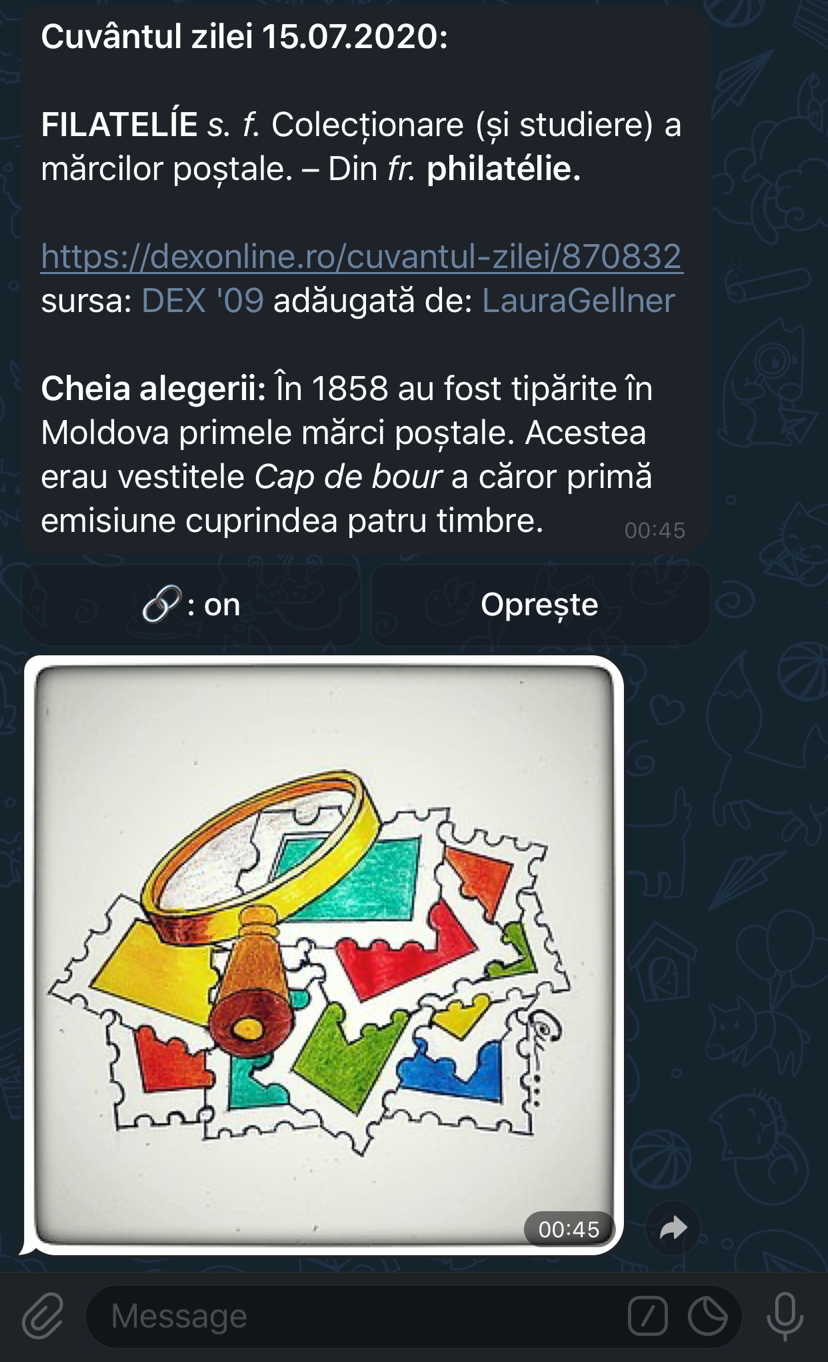
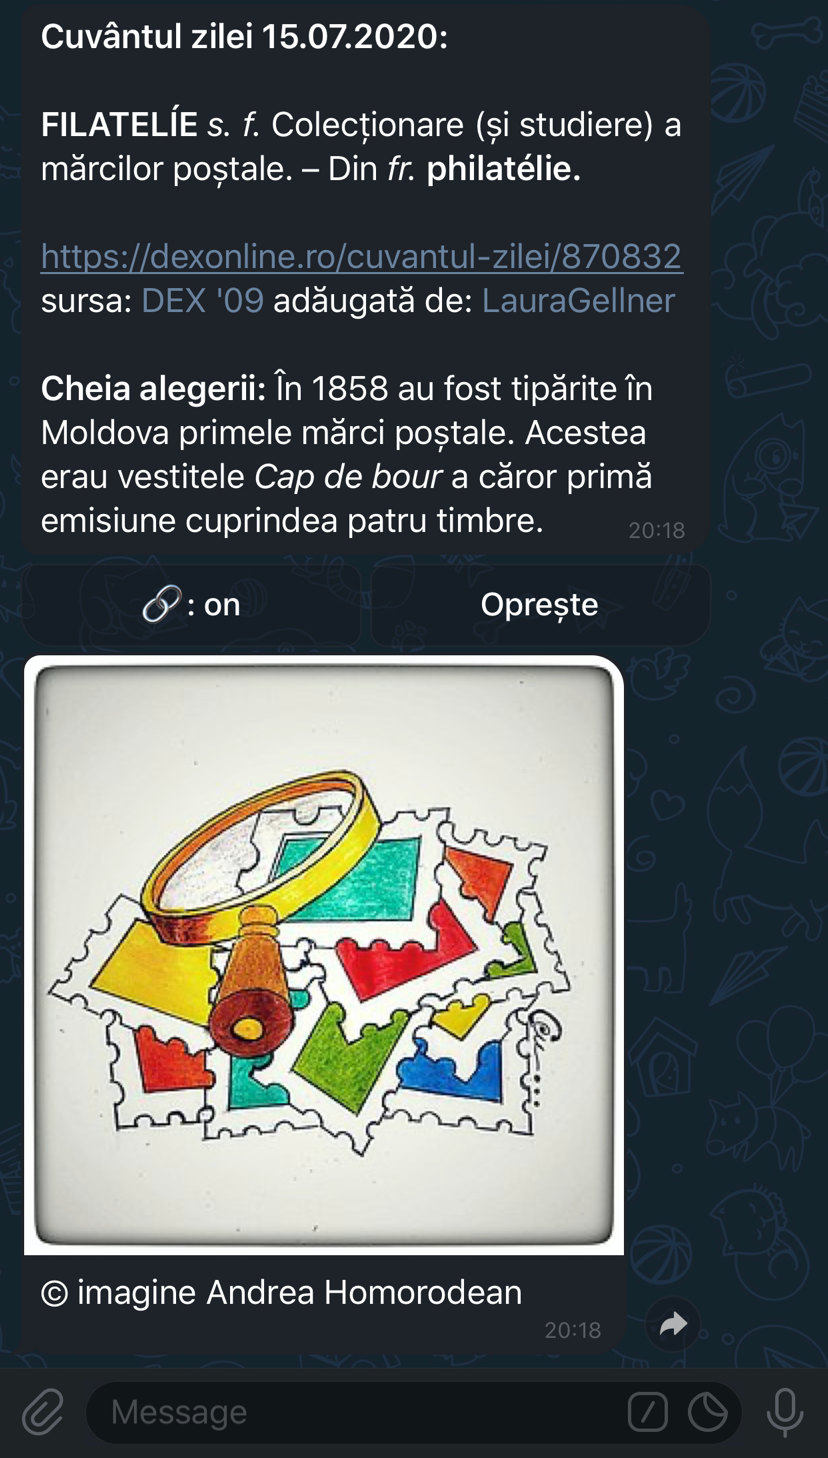
Updated the word of the day screenshot

diff --git a/README.md b/README.md
@@ -24,7 +24,7 @@ height="288">
 ### Word of the day feature
 
 <img alt="Word of the day screenshot" src="images/screenshot_wotd@2x.png"
-width="414" height="681">
+width="414" height="729">
 
 ## Getting Started
 
